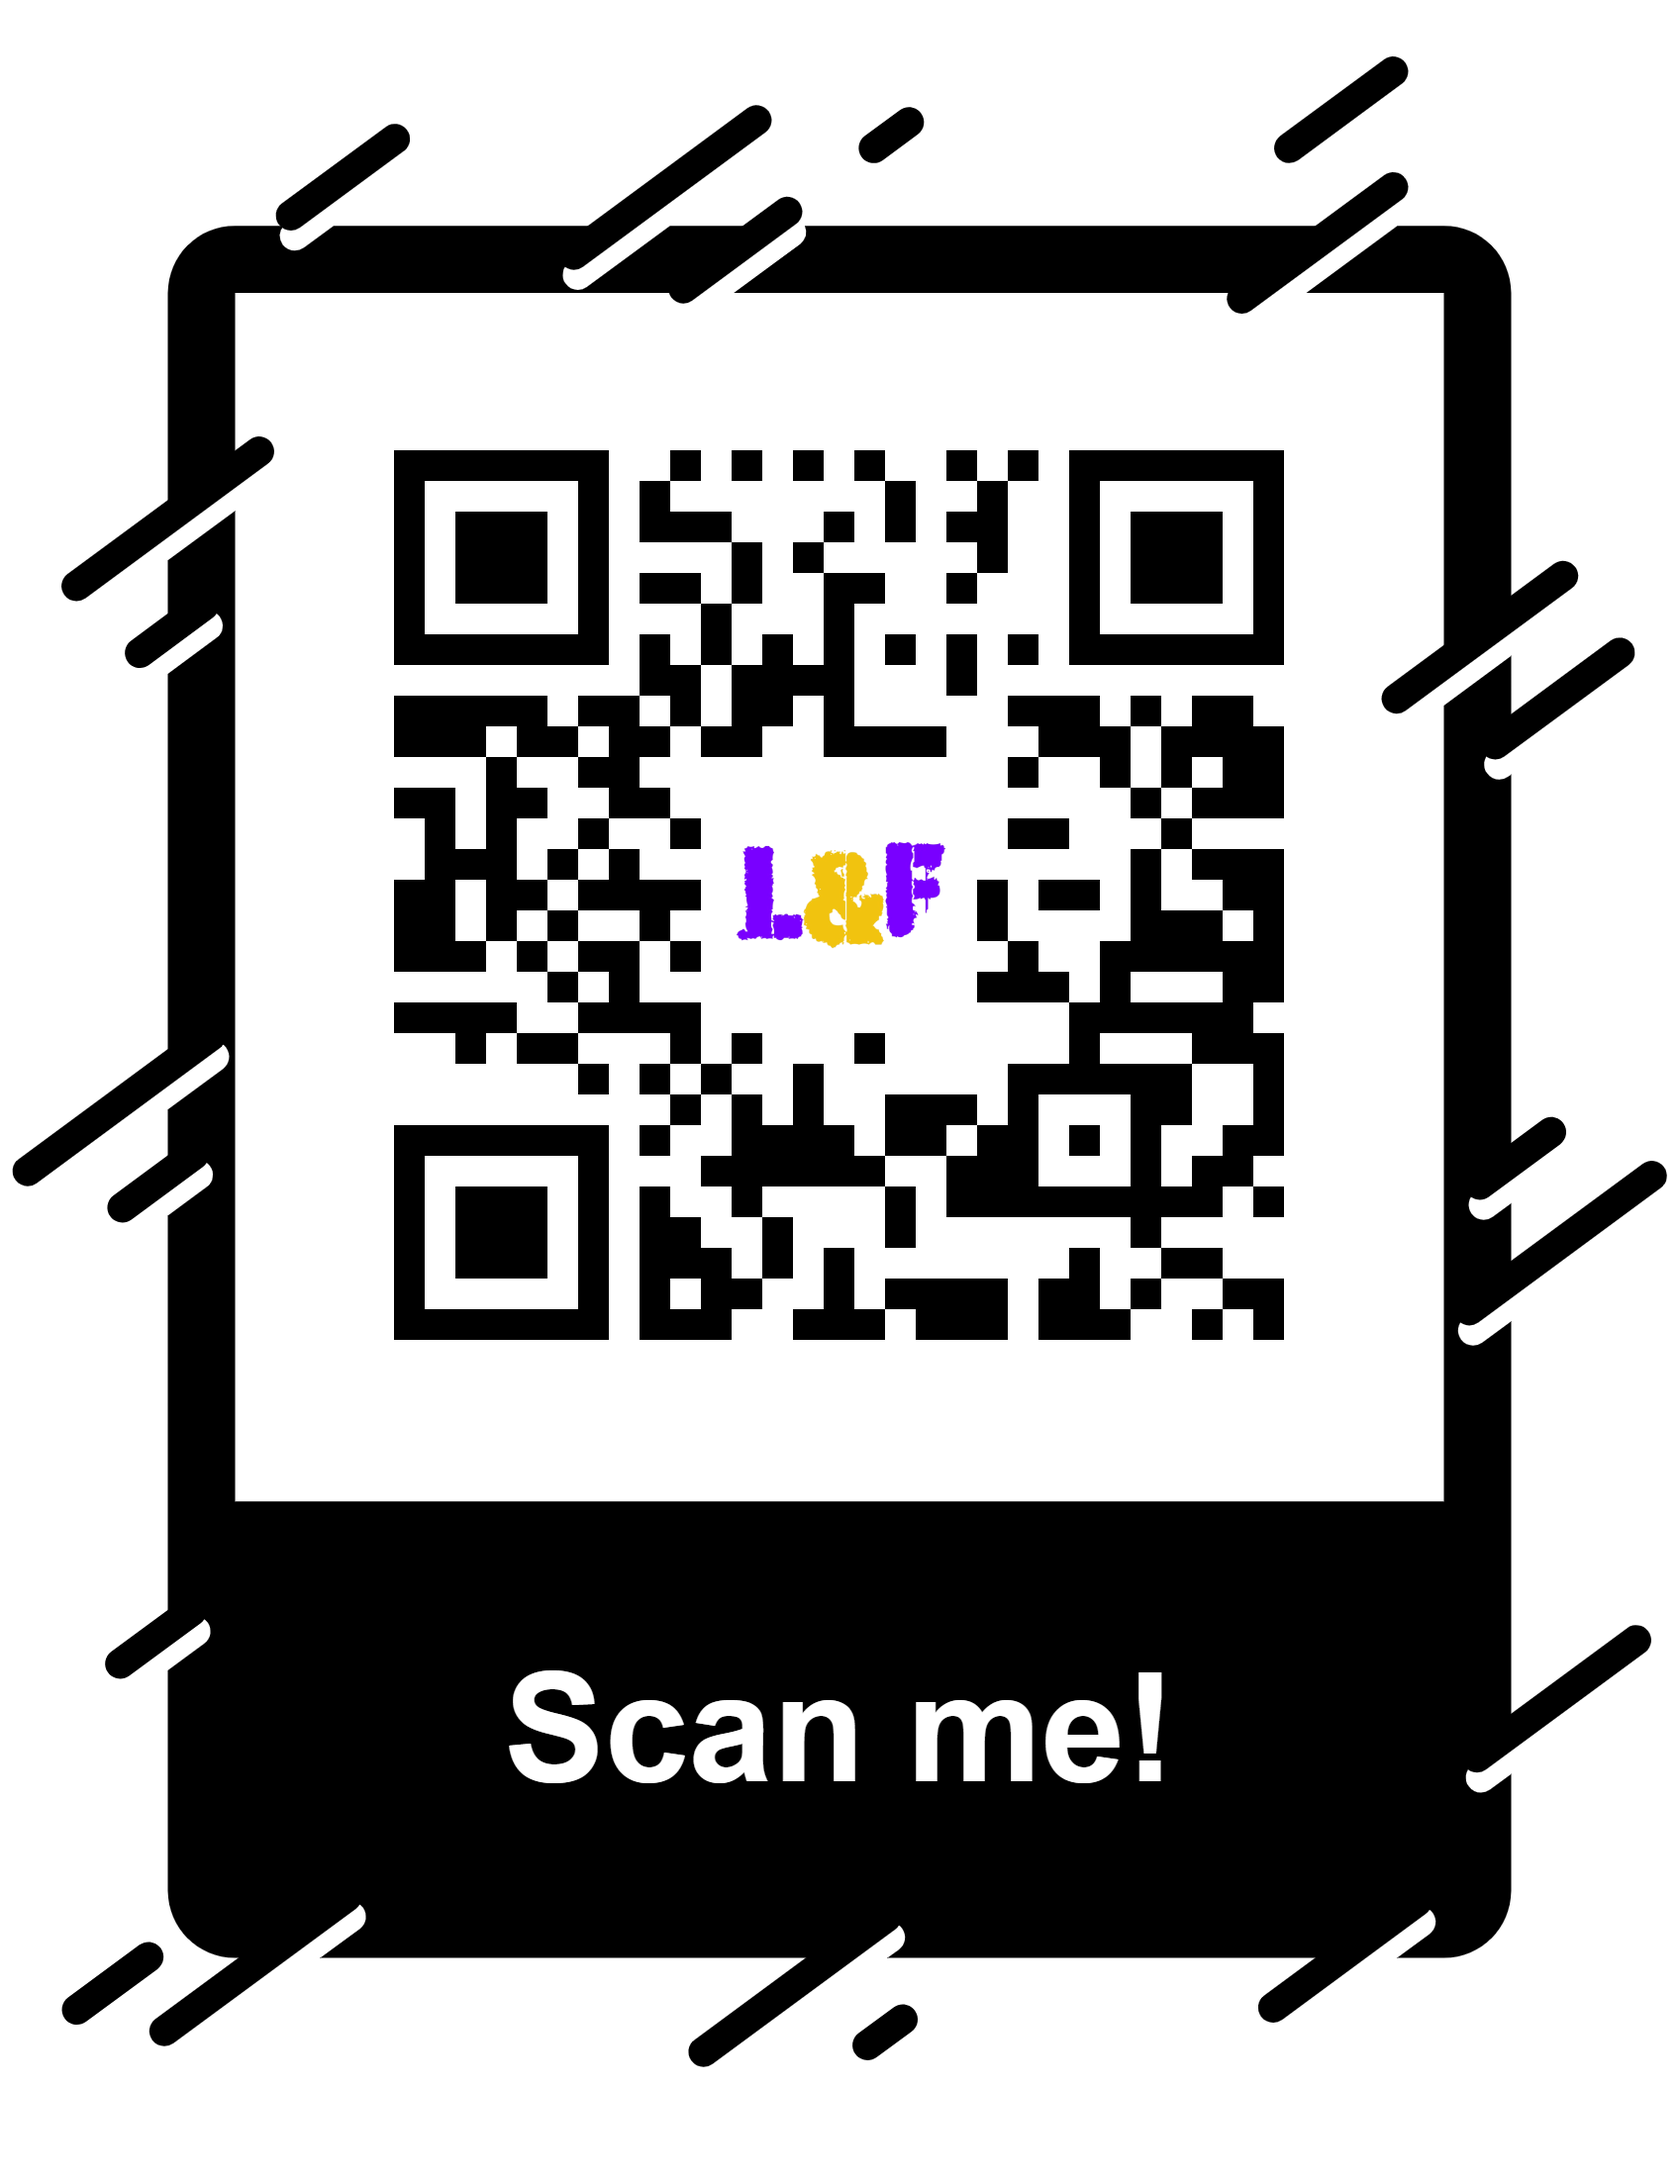
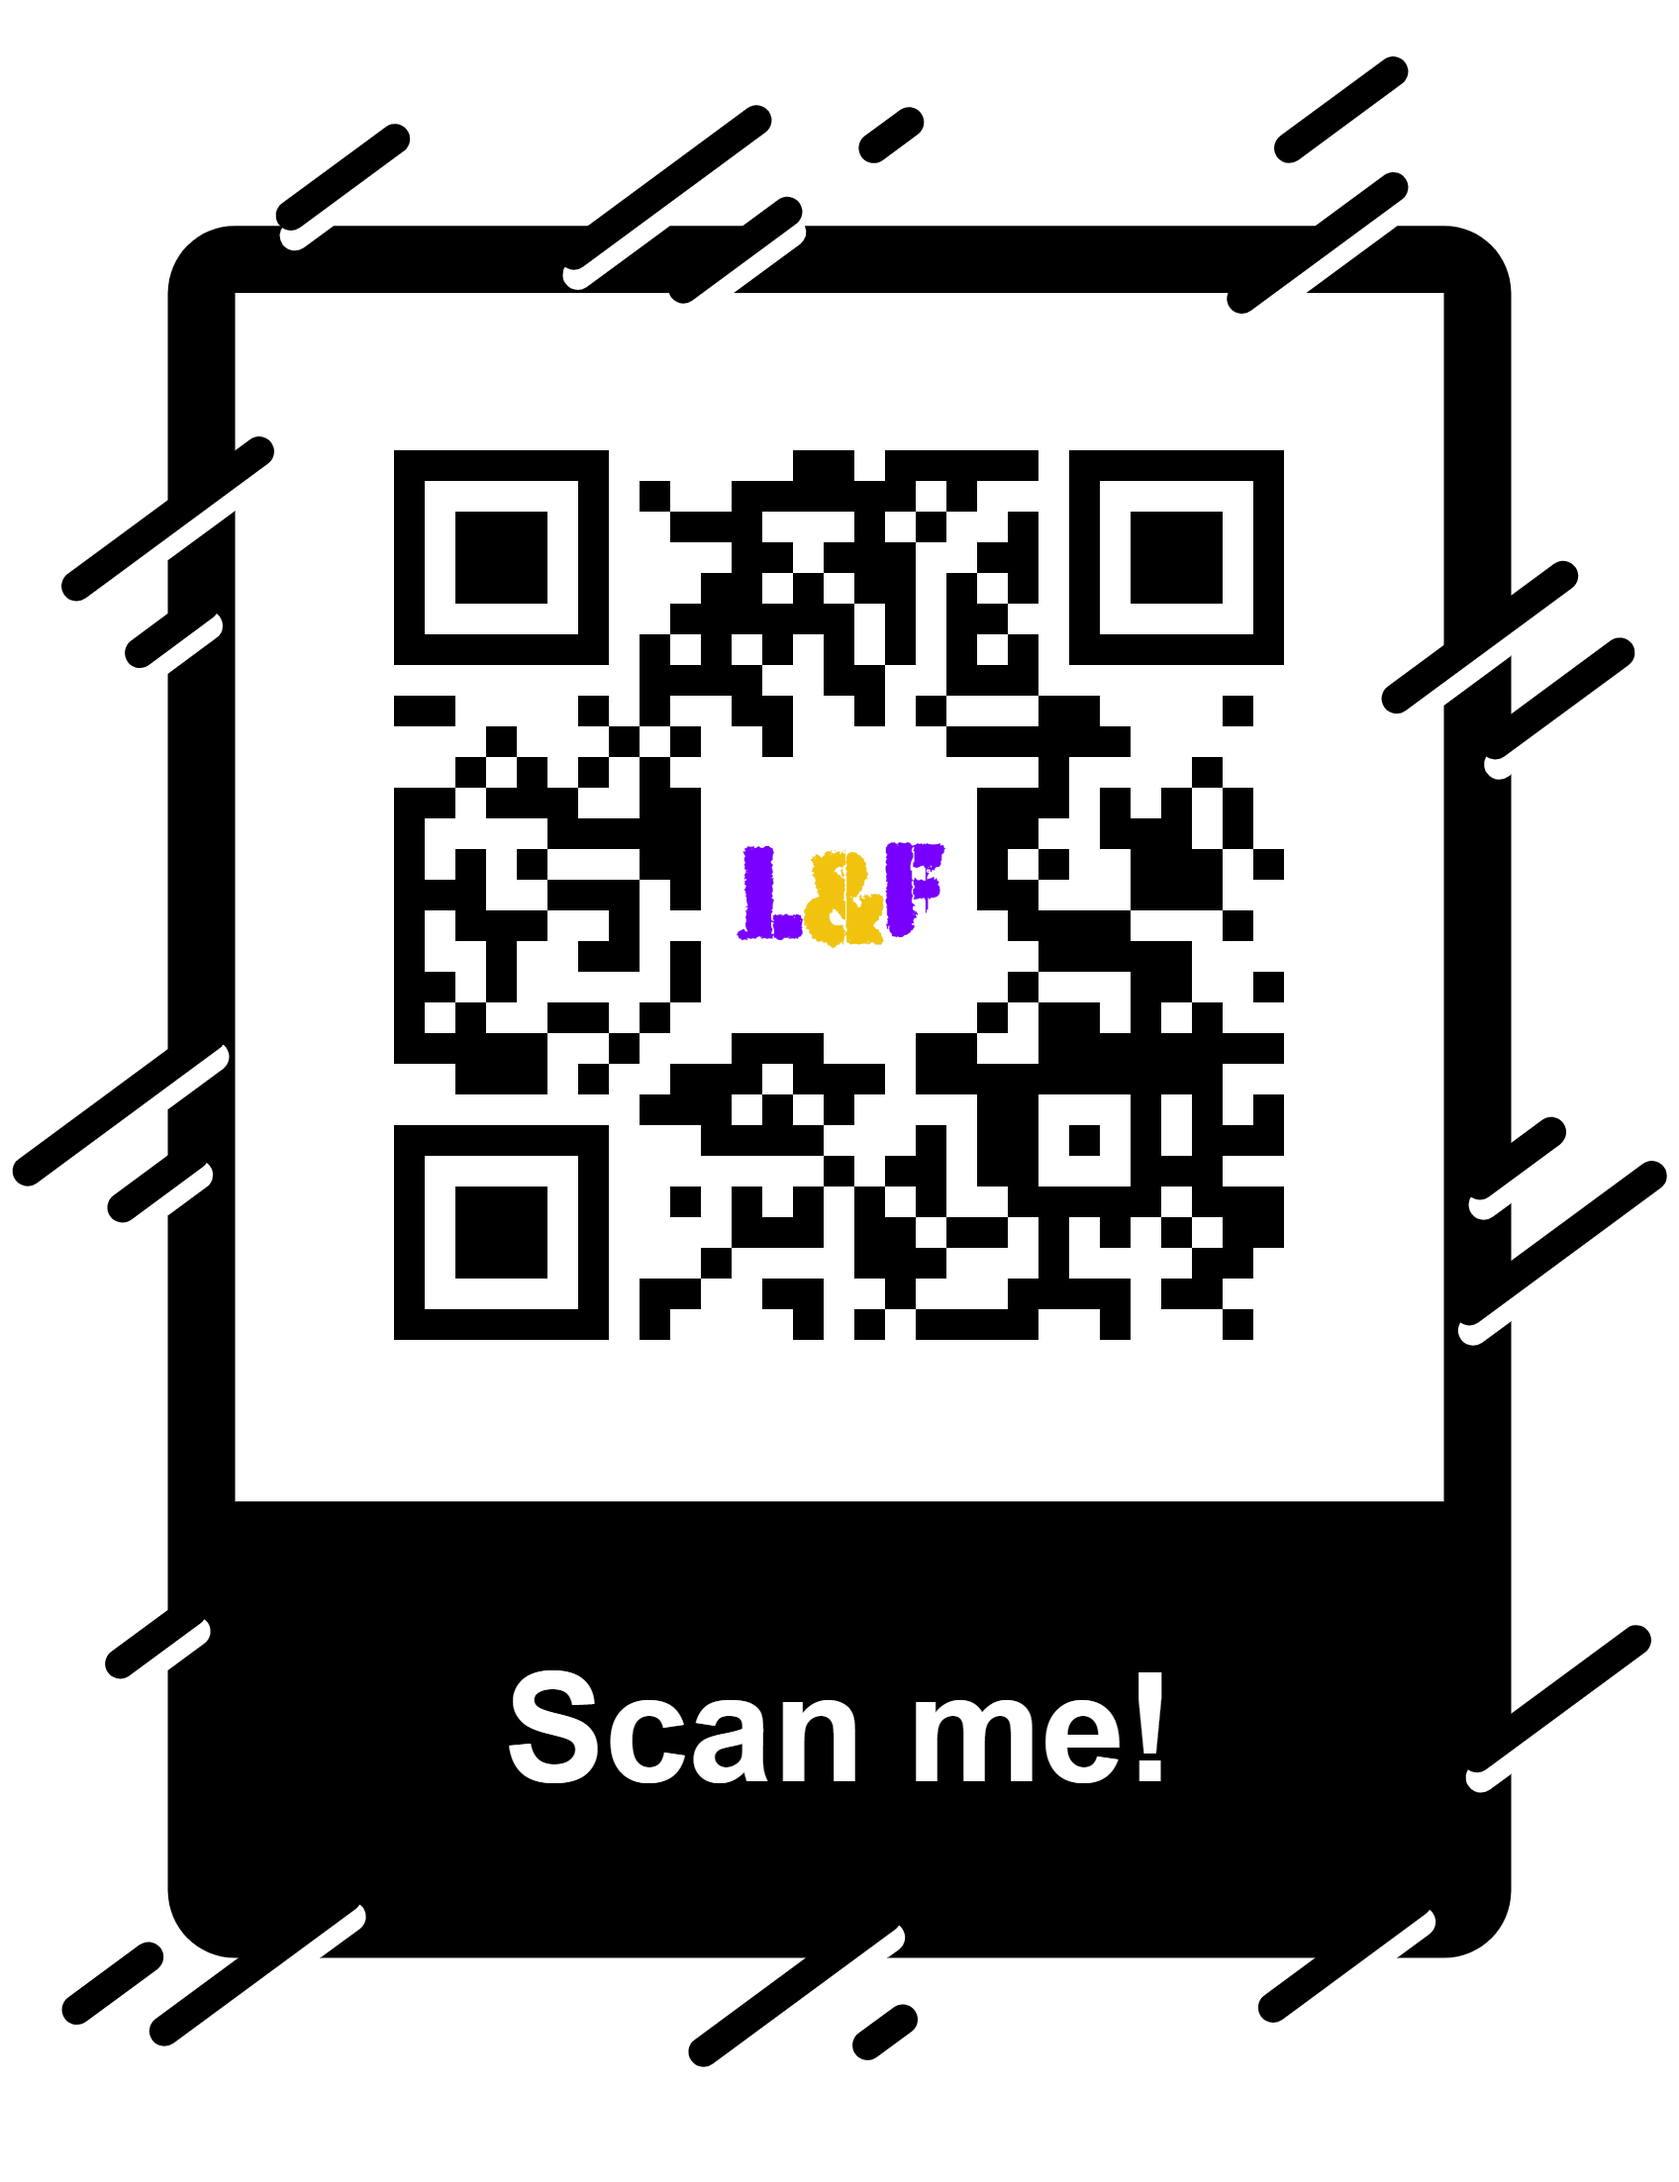
v1 completed

Changed region(s): [[0.2188, 0.185, 0.7812, 0.6168]]

diff --git a/components/download-app-modal.tsx b/components/download-app-modal.tsx
@@ -25,7 +25,7 @@ export function DownloadAppModal({ visible, onClose }: Props) {
           <Text className='text-lg text-center text-foreground'>scan to download</Text>
           <Text className='text-lg text-center text-foreground'>OR</Text>
           <AppButton onPress={() => {
-            const appLink = "https://expo.dev/artifacts/eas/d4TdFVfaQkzCoGe2Jcypon.apk";
+            const appLink = "https://expo.dev/artifacts/eas/6YqxwwBFGxV9oktwMfJXuZ.apk";
             window.location.href = appLink;
             onClose()
           }} className='mt-4'>
